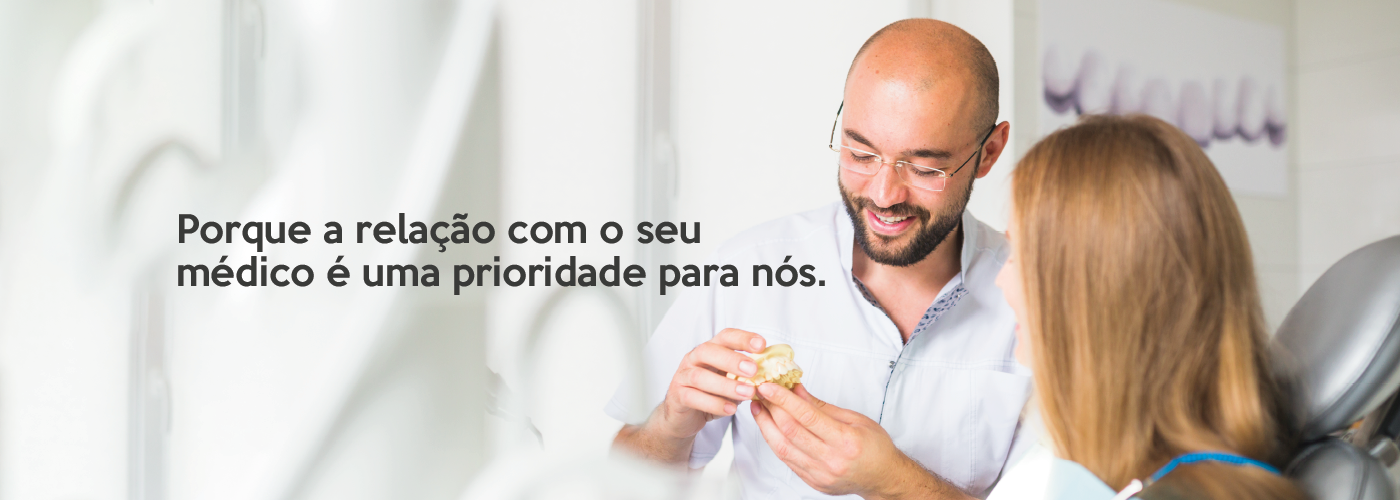
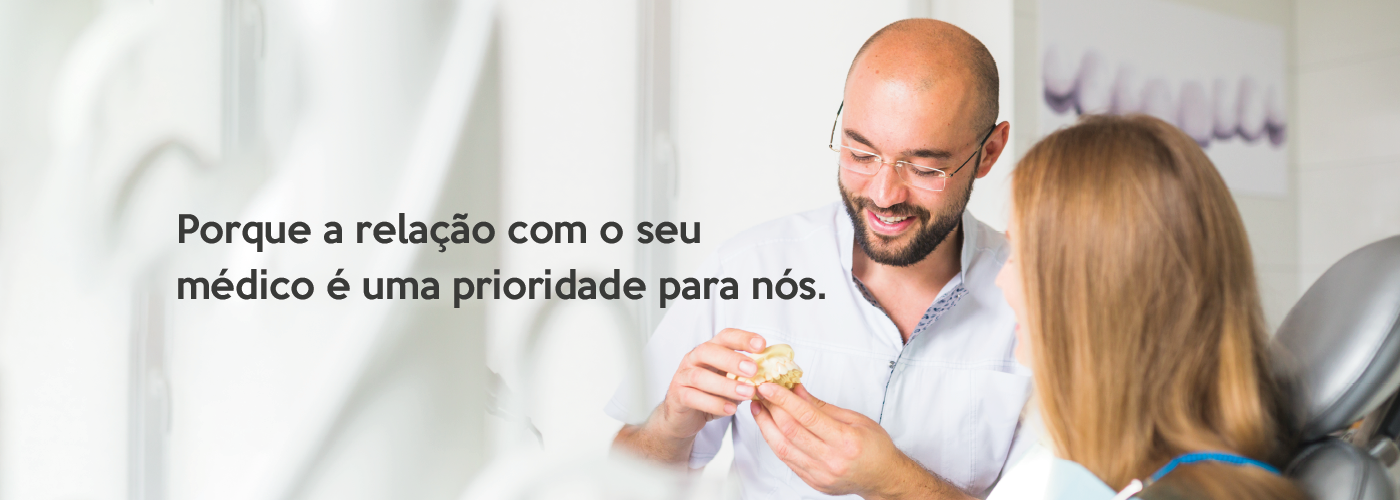
footer done
and slider changed

Changed region(s): [[0.1229, 0.51, 0.5836, 0.6]]

diff --git a/index.html b/index.html
@@ -77,7 +77,7 @@
 
     <!-- Page Content -->
     <div class="header" >  
-      <!--container retirado-->      
+      <!--container retirado--> 
         <div id="carouselExampleIndicators" class="carousel slide" data-ride="carousel">
             <ol class="carousel-indicators">
               <li data-target="#carouselExampleIndicators" data-slide-to="0" class="active"></li>
@@ -87,24 +87,24 @@
             <div class="carousel-inner"  style="height:500px;">
               <div class="carousel-item active">
                 <img class="d-block w-100" src="./img/slide1.png "alt="First slide">
-                <div class="carousel-caption" id="caption1">
-                 <!-- <h2> Os melhores médicos só trabalham para si
-                  </h2>-->
-                  </div>
+                 <!--<div class="carousel-caption" id="caption1">
+                 <h2> Os melhores médicos só trabalham para si
+                  </h2>
+                  </div>-->
               </div>
               <div class="carousel-item ">
                   <img class="d-block w-100" src="./img/slide2.png " alt="First slide">
-                      <div class="carousel-caption"id="caption2">
-                      <!--  <h2>Um acompanhamento personalizado e à medida das suas necessidades
-                          </h2> -->
-                      </div>
+                    <!--  <div class="carousel-caption"id="caption2">
+                        <h2>Um acompanhamento personalizado e à medida das suas necessidades
+                          </h2> 
+                      </div>-->
                 </div>
               <div class="carousel-item">
                 <img class="d-block w-100" src="./img/slide3.png" alt="Second slide">
-                <div class="carousel-caption"id="caption3"  >
-                   <!-- <h2>Porque a relação com o seu médico é uma prioridade para nós
-                    </h2>-->
-                    </div>
+                <!--<div class="carousel-caption"id="caption3"  >
+                    <h2>Porque a relação com o seu médico é uma prioridade para nós
+                    </h2>
+                    </div>-->
               </div>
              </div>
             <a class="carousel-control-prev" href="#carouselExampleIndicators" role="button" data-slide="prev">
@@ -340,70 +340,68 @@
         
       </div>
 <footer class="page-footer" style="margin-top:2em;" >
-  <!-- Copyright 
-        <div class="footer-copyright text-center py-3">© 2018 Copyright: 
-            <a href="https://brightdigital.pt/">BRIGHT</a>
-        </div>
-        Copyright -->
-<div class="container" >
-        <div class="row">
-            <div class="col-lg-9">
-                <ul class="nav ">
-                    <li class="nav-vision">
-                      <a class="nav-link" href="#vision_container">A NOSSA VISÃO</a>
-                    </li> 
-                    <li class="nav-network">
-                        <a class="nav-link" href="#info_map_container">A REDE </a>
+  <div class="container" >
+          <div class="row" id="footer-row1">
+              <div class="col-lg-7">
+                  <ul class="nav">
+                      <li class="nav-footer">
+                          <a class="nav-link" href="#">Home</a>
+                        </li> 
+                      <li class="nav-footer">
+                        <a class="nav-link" href="#vision_container">A nossa Visão</a>
+                      </li> 
+                      <li class="nav-footer">
+                          <a class="nav-link" href="#info_map_container">A Rede</a>
+                        </li>
+                      <li class="nav-footer">
+                        <a class="nav-link" href="become.html">Torne-se SmartClinic</a>
                       </li>
-                    <li class="nav-becoming">
-                      <a class="nav-link" href="become.html">TORNE-SE SMARTCLINIC</a>
-                    </li>
-                  </ul>
-            </div>
-            <div class="col-lg-3">
-              
-                <a class="insta-link"  href="#" >
-                    <i class="fab fa-instagram"></i> </a>  
-
-                <a class="face-link"  href="#" >
-                        <i class="fab fa-facebook"></i> </a>
-                        <button type="button" class="btn btn-fb">                <i class="fab fa-facebook-f"></i>
-                        </button>
-                        
-                <a class="google-link"  href="#" >
-                           <i class="fab fa-google-plus-g"></i>
-                </a>   
-                <a href="#" class="fa fa-facebook"></a>
-                
-                
-                         
-            </div>
-        </div>
-        <div class="row"id="footer-row2">
-          <div class="col-lg-12">
-                  
-              <ul class="nav">
-                  <li class="nav-terms">
-                    <a class="nav-link" href="#vision_container">Termos e Condições</a>
-                  </li> 
-                  <li class="nav-policy">
-                    </li>
-                    <p>                     ||
-                      </p>  
-                    <li class="nav">
-                        <p>                     © 2018 Todos os direitos reservados
-                          </p>  
+                      
+                    </ul>
+              </div>
+              <div class="col-lg-5">
+                    <ul class="nav ">
+                      <li class="nav-social-media">
+                          <a class="nav-link  " href="https://instagram.com"target="_blank">
+                            <i class="fab fa-instagram fa-lg mr-md-5 mr-3 fa-2x"> </i> </a>
                       </li>
-              </ul>
-              
-              
+                      </li> 
+                      <li class="nav-social-media">
+                          <a class="nav-link" href="https://facebook.pt"target="_blank">
+                            <i class="fab fa-facebook-f fa-lg white-text mr-md-5 mr-3 fa-2x"> </i>
+                          </a>
+                            </li>
+                      <li class="nav-social-media">
+                          <a class="nav-link" href="https://google.pt"target="_blank">
+                            <i class="fab fa-google-plus-g fa-lg white-text mr-md-5 mr-3 fa-2x"> </i>
+                          </a>            
+                      </li>
+                    </ul>
+                
+              </div>
           </div>
-           
+          <div class="row"id="footer-row2">
+            <div class="col-lg-12">         
+                <ul class="nav">
+                    <li class="nav-footer">
+                      <a class="nav-link" href="#">Termos e Condições</a>
+                    </li> 
+                    <li class="nav-footer">
+                        <a  class="nav-link" href="#">Politica de Privacidade e cookies</a>
+                      </li>
+                      <li class="nav-footer">
+                          <p>|    © 2018 Todos os direitos reservados
+                            </p>  
+                        </li>
+                </ul>
+                
+            </div>
+            
+          </div>
         </div>
-      </div>
-      
+        
 
-      </footer>
+</footer>
       
       <!-- Footer -->
 

diff --git a/css/logo-nav.css b/css/logo-nav.css
@@ -226,14 +226,32 @@ padding-top: 0px;
 
 /***footer**/
 
+
 .page-footer{
   background-color: rgb(59, 59, 59);  
   padding:50px;
+  text-align: left;
 }
 .nav-link{
   color:white;
+  size: large;
+  display: inline;    
+  
+}
+.nav-footer .nav-link:hover{
+  text-decoration: underline;
+  color:white;
+  
+}
+.nav-footer p{
+  color:white;
+}
+
+#footer-row1{
+  border-bottom: 1px solid #ffd43f;
+  padding-bottom: 20px;
 }
 #footer-row2{
-  border-top: 1px solid #ffd43f;
-  padding-top: 10px;
+  padding-top: 20px;
+  
 }
